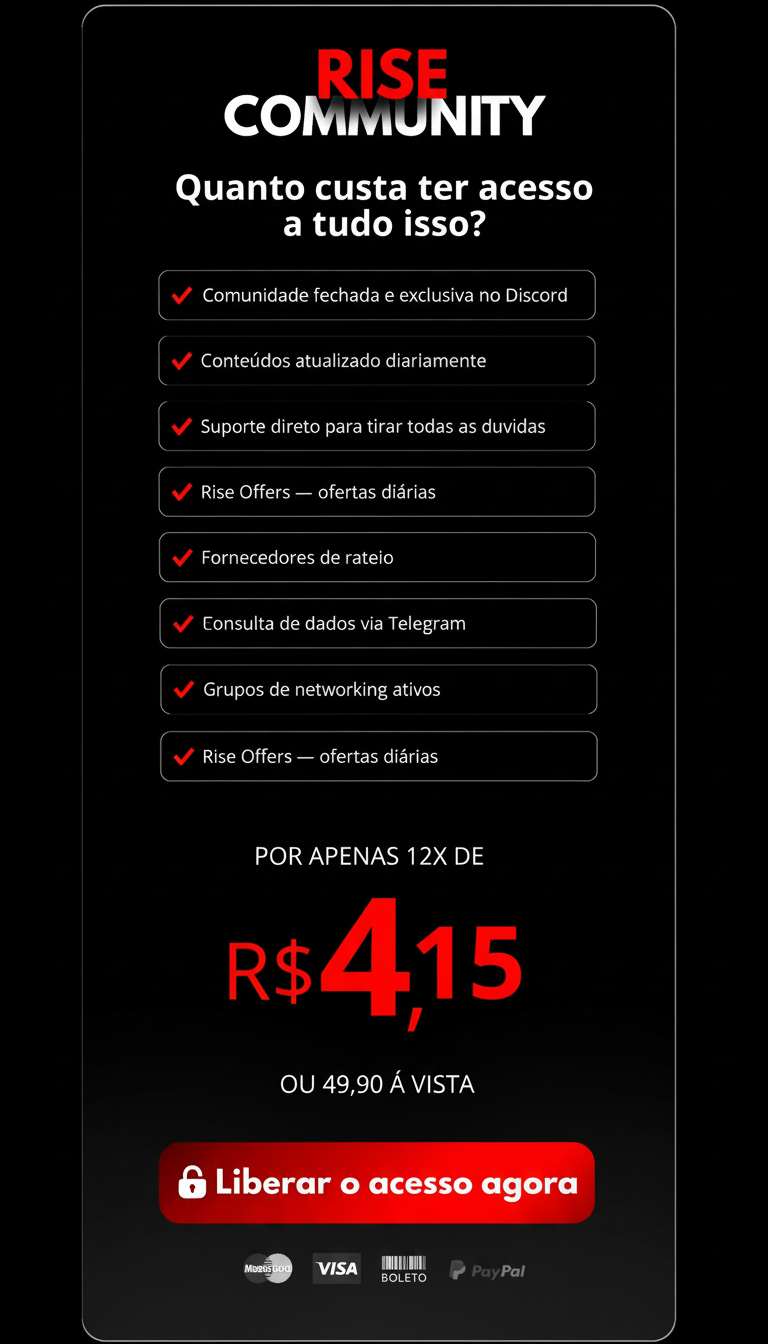
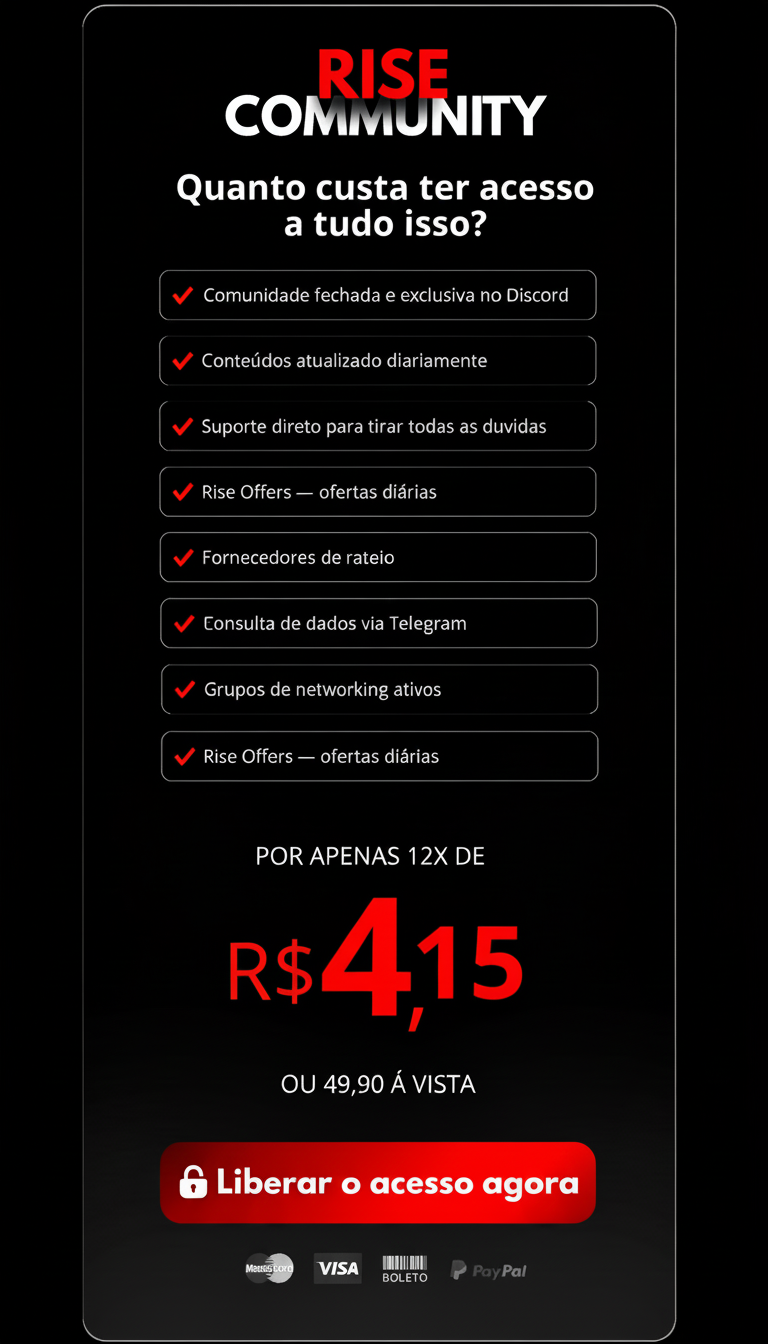
Changes

diff --git a/src/components/PricingSection.tsx b/src/components/PricingSection.tsx
@@ -1,5 +1,5 @@
 import pricingImage from "@/assets/pricing-section.jpg";
-import pricingImageMobile from "@/assets/pricing-section-mobile.jpg";
+import pricingImageMobile from "@/assets/pricing-section-mobile-tight.jpg";
 import Section from "@/components/layout/Section";
 import Container from "@/components/layout/Container";
 
